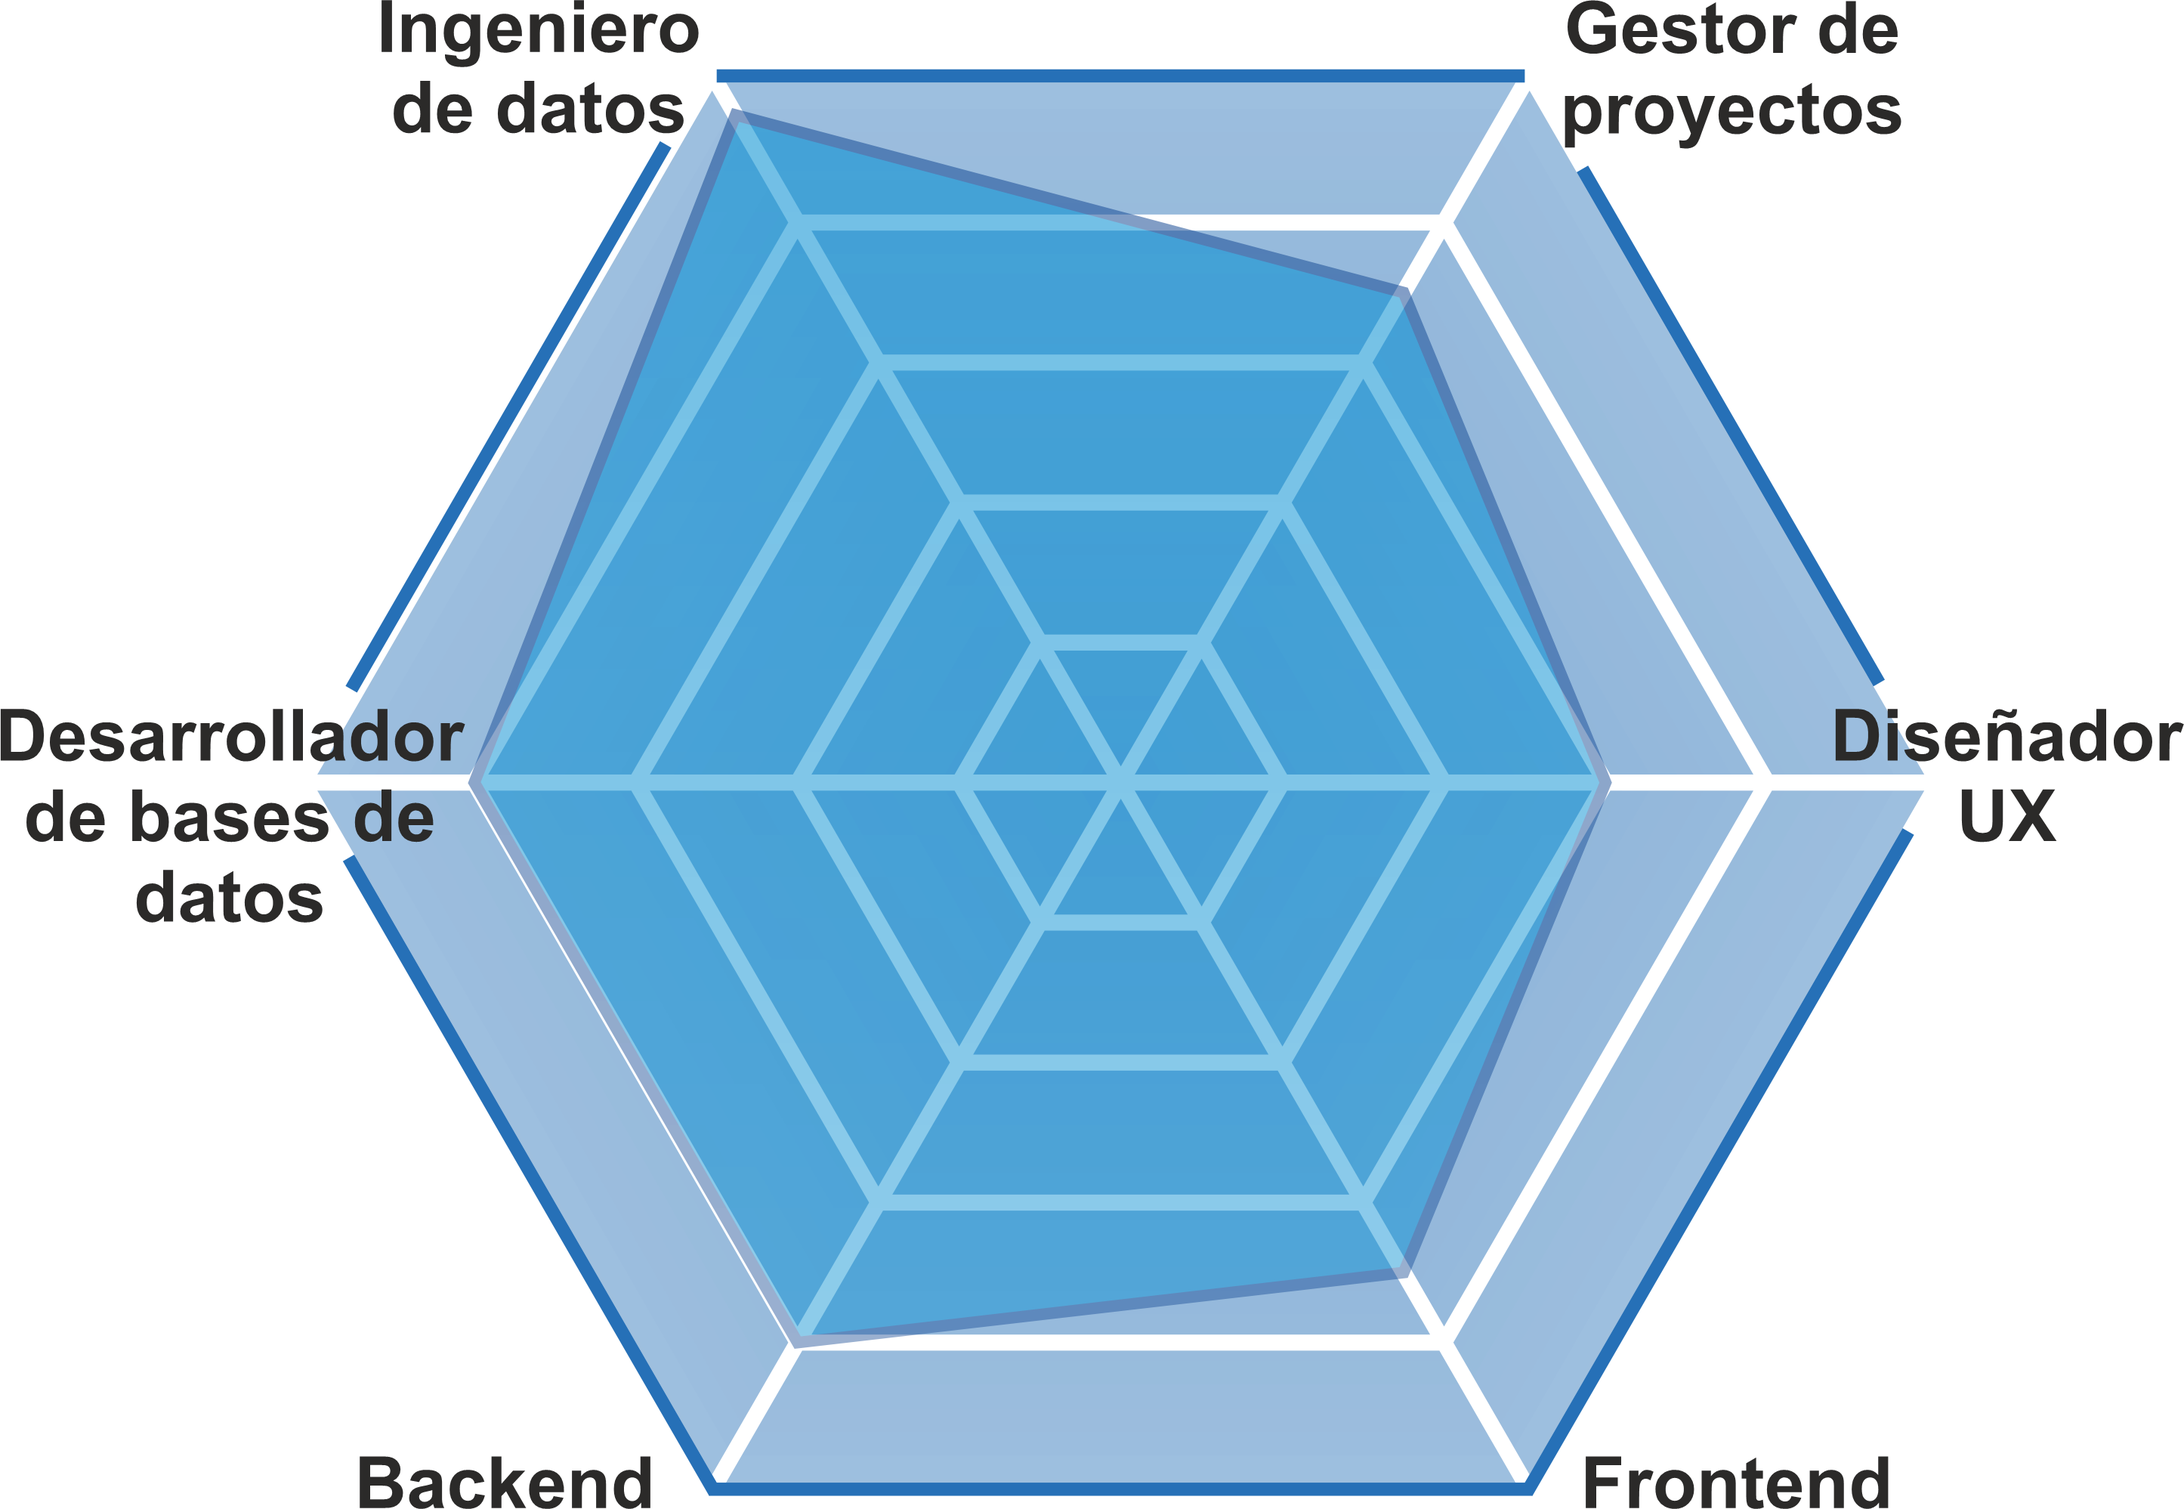
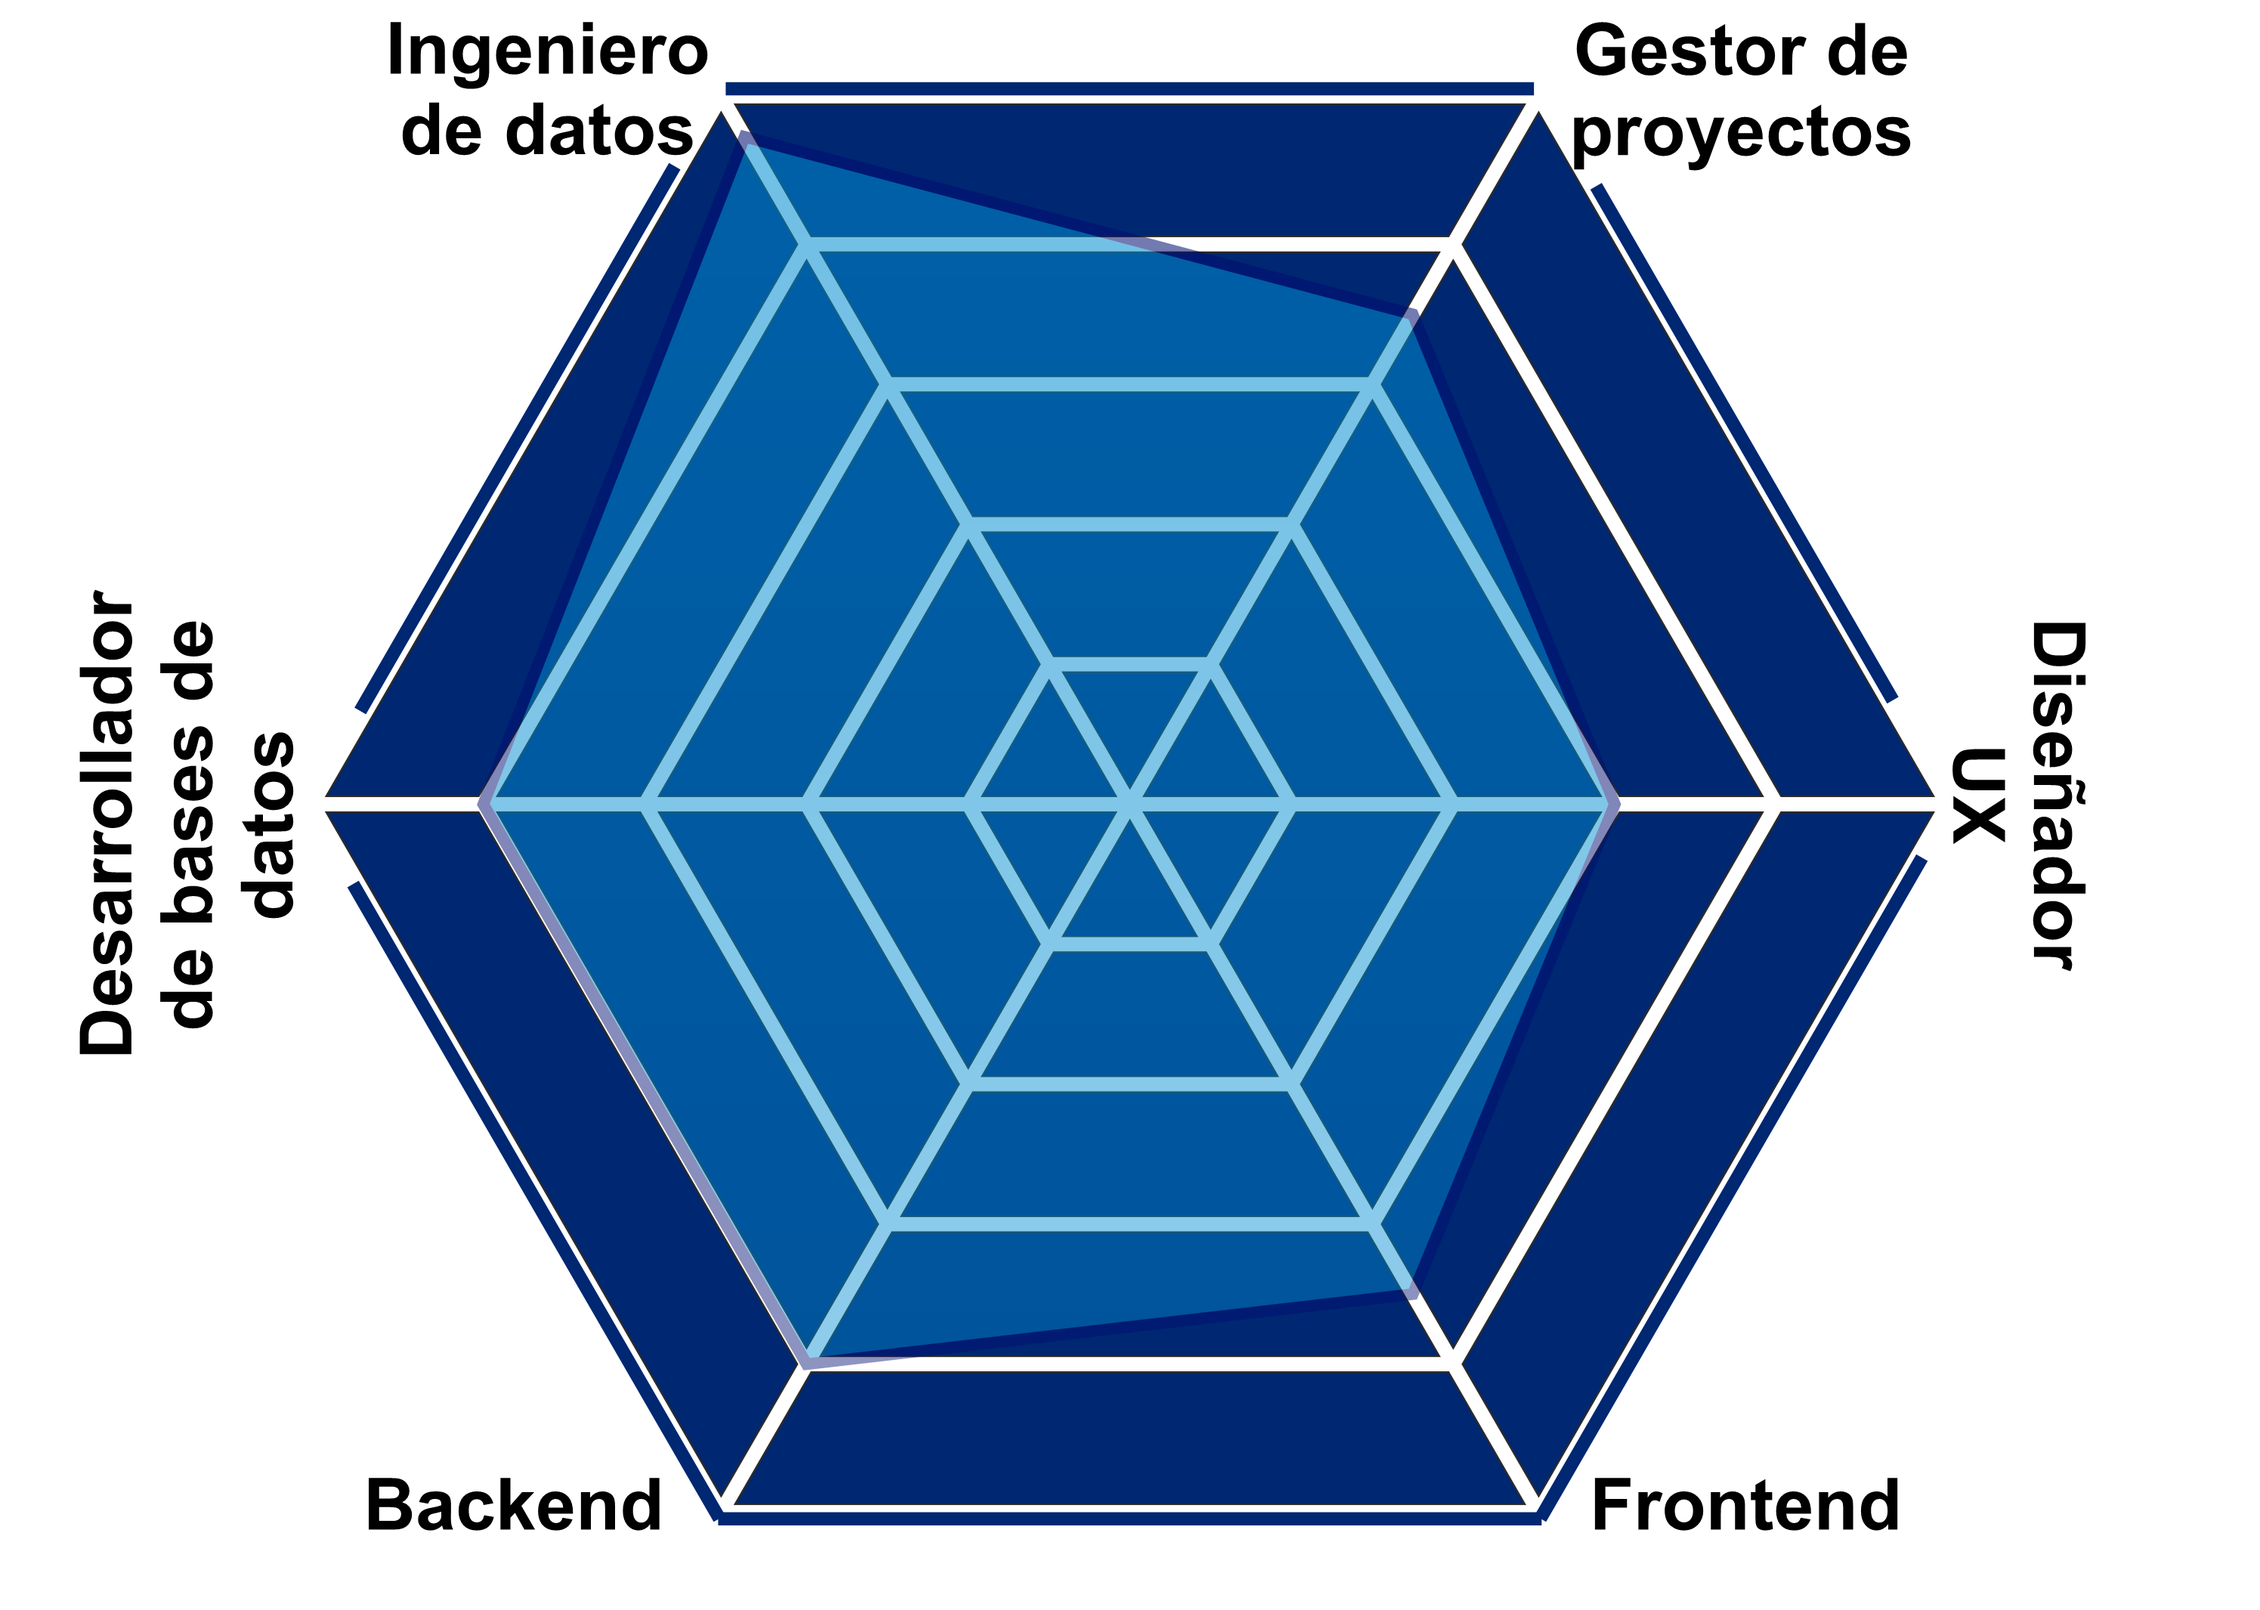
Initial commit

diff --git a/script.js b/script.js
@@ -23,6 +23,7 @@ for (let cid = 0; cid < drpDwnSftwr.length; cid++) {
     eval("sftwrd_"+String(cid)+" = document.getElementById('"+drpDwnSftwr[cid].id+"')");
 }
 let img_prgrms = document.getElementsByClassName("img_prgrms")
+let hexaHab_foto = document.getElementById("hexaHab_foto")
 // ----------------------- Se adecua el tamaño del contenedor
 function initContenedor(){
     contenedor = document.getElementById("contenedor");
@@ -53,7 +54,7 @@ function initBotons(){
     rectcontenedor = contenedor.getBoundingClientRect();
     contenedorW=rectcontenedor.width*.9; contenedorH=rectcontenedor.height*.9;
 
-    CV_foto.style.opacity=1 // <<<< Opacidad Foto
+    CV_foto.style.opacity=.7 // <<<< Opacidad Foto
     for(let b=0;b<3;b++){
         // ------------------------ Inicialización de Botones
         eval("botonA"+String(b)+'.style.left = "'+String(posBA[b])+'%";')
@@ -81,7 +82,7 @@ function initBotons(){
         // ------------------------ Inicialización de Hs
         if(eval("H_"+String(b))){
             for (let Hh of eval("H_"+String(b))){
-                eval('Hh.style.fontSize = "'+String(Math.floor(contenedorW*.058/(b*.6+1)))+'px";');
+                eval('Hh.style.fontSize = "'+String(Math.floor(contenedorW*.057/(b*.6+1)))+'px";');
                 eval('Hh.style.opacity = 1');}}        
     }
     // ------------------------ Inicialización de drpdwnStds
@@ -149,9 +150,9 @@ function nextPage(pageId) {
                 hs++;    
             }
         }
-        // ------------------------------------------------ Desparición Letras
+        // ------------------------------------------------ Desaparición Letras
         if(cb<=50){
-            CV_foto.style.opacity=String((50-cb)/50)
+            CV_foto.style.opacity=String(.7*(50-cb)/50)
             eval("titulo_"+String(parseInt(pageId.at(-1))-1)+".style.opacity = "+String((50-cb)/50))
             for(let b =0;b<3;b++){
                 if(eval("H_"+String(b))){
@@ -162,8 +163,6 @@ function nextPage(pageId) {
             }
             estudios.style.opacity=String((50-cb)/50)
         }
-
-
         if(cb>=100){
             const currentActivePage = document.querySelector(".pagina.active");
             currentActivePage.classList.remove("active");
@@ -173,6 +172,8 @@ function nextPage(pageId) {
             blockBotons(false)
             return; // Salir del ciclo
         }
+
+
         cb++;
         setTimeout(movimiento, 10);
     }
@@ -221,8 +222,19 @@ function previousPage(pageId) {
             }
 
         }
-
-
+        // ------------------------------------------------ Desaparición Letras
+        if(cb<=50){
+            CV_foto.style.opacity=String(.7*(50-cb)/50)
+            eval("titulo_"+String(parseInt(pageId.at(-1)))+".style.opacity = "+String((50-cb)/50))
+            for(let b =0;b<3;b++){
+                if(eval("H_"+String(b))){
+                    for (let Hh of eval("H_"+String(b))) {
+                        eval("Hh.style.opacity = "+String((50-cb)/50))
+                    }
+                }
+            }
+            estudios.style.opacity=String((50-cb)/50)
+        }
 
         if(cb>=100){
             const currentActivePage = document.querySelector(".pagina.active");
@@ -255,6 +267,9 @@ const palpitar = () => {
     let esc= Math.sin(cs);
     contenedor.style.boxShadow = "0 0 "+String(esc*30)+"px rgb(0, 153, 255), 0 0 "+String(esc*30)+"px rgb(0, 153, 255), 0 0 "+String(esc*66)+"px rgb(0, 153, 255)";
     setTimeout(palpitar, 100);
+    // ------------------------------------------------ Animación exagono
+    hexaHab_foto.style.scale = cs/Math.PI
+    
 }
 
 palpitar()

diff --git a/estilo.css b/estilo.css
@@ -60,9 +60,9 @@ body {
 #Mi_Nombre{
     position: absolute;
     width: 60%;
-    height: 9%;
+    height: 10%;
     top: 1%;
-    right: 9%;
+    right: 13%;
 }
 #CV_foto{
     position: relative;
@@ -174,7 +174,7 @@ body {
     right: 3%;
     text-align: justify;
     font-weight: bold;
-    color: rgb(0, 39, 113);
+    color: rgb(0, 39, 147);
     z-index: 1;
 }
 .ExpLabFR{
@@ -265,6 +265,38 @@ body {
 .img_prgrms{
     position: relative;
 }
+/* -------------------------------  PAGINA 1 ------------------------------- */
+#titulo_1{
+    position: absolute;
+    left: 3%;
+    top:1%;
+    color: rgb(0, 39, 147);
+}
+.habilidades{
+    position: absolute;
+    width: 70%;
+    height: auto;
+    top: 3.9%;
+    left: 3%;
+    text-align: justify;
+}
+#DiagHab_foto{
+    position: absolute;
+    width: 79%;
+    height: 39%;
+    top: 19%;
+    left: 3%;
+}
+#hexaHab_foto{
+    position: absolute;
+    width: 79%;
+    height: 39%;
+    top: 19%;
+    left: 3%;
+    scale: .39;
+}
+
+
 
 
 /* -------------------------------- BOTON -------------------------------- */

diff --git a/index.html b/index.html
@@ -134,7 +134,19 @@
         
         <div class="pagina" id="pagina1">
             <div class="triangle" id="triangle1"></div>
-            <h1 class="H_0" id="titulo_1">Pagina 1</h1>
+            <div class="H_0"></div>
+            <h1 class="H_1" id="titulo_1">Competencias:</h1>
+            <div class="H_2 habilidades">
+                <h3>
+                    Sólidas habilidades como ingeniero de datos y analista, desarrollador de bases de datos, experiencia en diseño UX, la gestión de proyectos, y el desarrollo de soluciones de inteligencia artificial, incluyendo redes neuronales artificiales.
+                </h3>
+            </div>
+
+
+
+            <div class="H_0"><img src="diagrama_habilidades.png" id="DiagHab_foto"></div>
+            <div class="H_0"><img src="hexa_hab.png" id="hexaHab_foto"></div>
+
             <div class="page-nav">
                 <button class="boton" id="botonA1" onclick="previousPage('pagina0')">Anterior</button>
                 <button class="boton" id="botonS1" onclick="nextPage('pagina2')">Siguiente</button>
